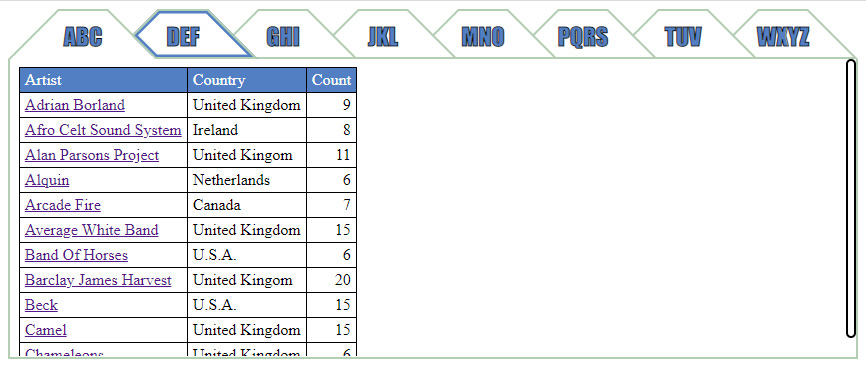
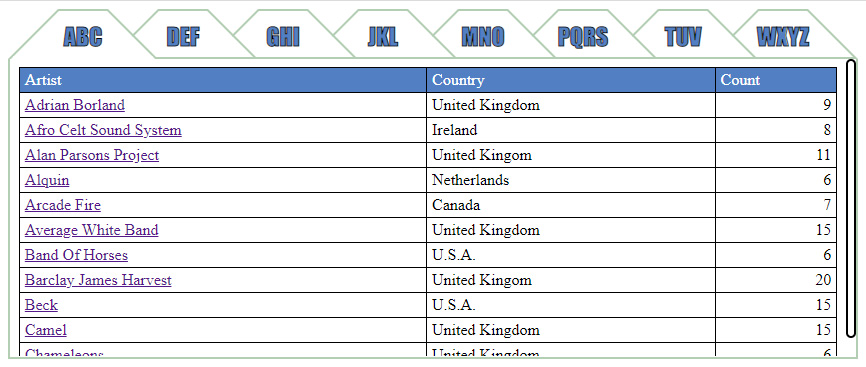
Add files via upload

diff --git a/testtabset.html b/testtabset.html
@@ -1,6 +1,6 @@
 <html>
     <head>
-        <title>Tabs</title>
+        <title>Test Tabset</title>
         <meta charset="UTF-8">
         <script src="https://code.jquery.com/jquery-3.4.0.min.js"></script>
         <script src="oyotabset.js"></script>
@@ -26,6 +26,7 @@
                 padding: 8px;
             }
             table {
+                width: 100%;
                 border-collapse: collapse;
             }
             thead {
